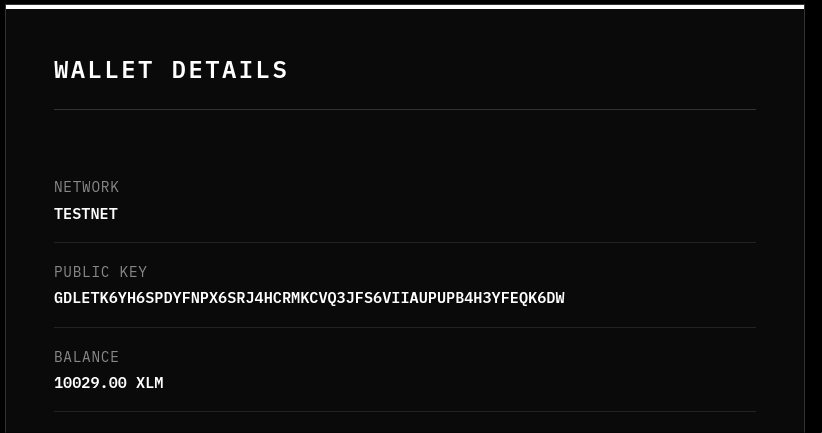
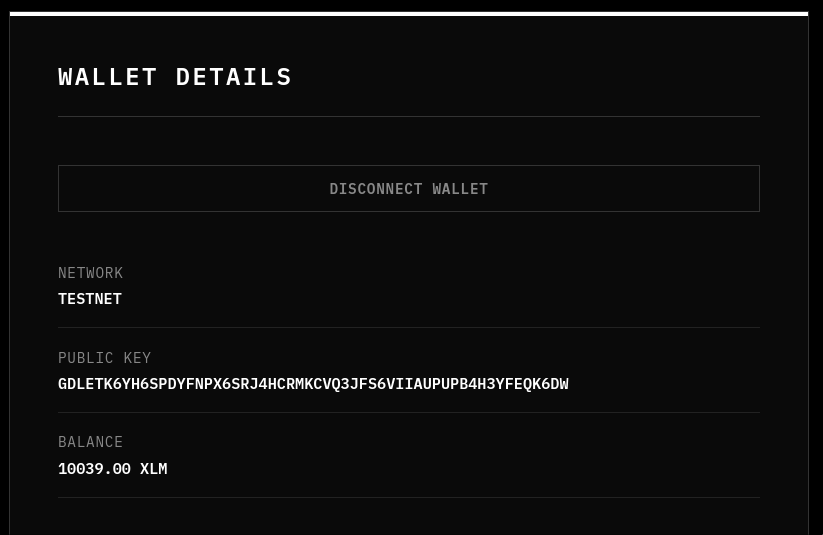
Add transaction sending functionality and disconnect button to Header component

diff --git a/src/components/Header.js b/src/components/Header.js
@@ -1,5 +1,5 @@
 import React, { useState } from 'react';
-import { checkConnection, retrievePublicKey, getBalance, getTransaction } from './Freighter';
+import { checkConnection, retrievePublicKey, getBalance, getTransaction, sendTransaction } from './Freighter';
 
 const Header = () => {
     const [connected, setConnected] = useState(false);
@@ -7,6 +7,21 @@ const Header = () => {
     const [balance, setBalance] = useState("0");
     const [transactions, setTransactions] = useState([]);
     const [isLoading, setIsLoading] = useState(false);
+
+    // Transaction state
+    const [sendDestination, setSendDestination] = useState("");
+    const [sendAmount, setSendAmount] = useState("");
+    const [txStatus, setTxStatus] = useState({ loading: false, success: false, error: null, hash: null });
+
+    const disconnectWallet = () => {
+        setPublicKey("");
+        setBalance("0");
+        setTransactions([]);
+        setConnected(false);
+        setSendDestination("");
+        setSendAmount("");
+        setTxStatus({ loading: false, success: false, error: null, hash: null });
+    };
 
     const connectWallet = async () => {
         setIsLoading(true);
@@ -39,6 +54,33 @@ const Header = () => {
         return `${addr.substring(0, 6)}...${addr.substring(addr.length - 4)}`;
     };
 
+    const handleSendTransaction = async () => {
+        if (!sendDestination || !sendAmount) {
+            alert("Please enter a destination address and amount.");
+            return;
+        }
+
+        setTxStatus({ loading: true, success: false, error: null, hash: null });
+        try {
+            const result = await sendTransaction(sendDestination, sendAmount);
+            setTxStatus({ loading: false, success: true, error: null, hash: result.hash });
+
+            // Refresh balance and transactions after successfully sending
+            setTimeout(async () => {
+                const bal = await getBalance();
+                const txs = await getTransaction(5);
+                setBalance(Number(bal).toFixed(2));
+                setTransactions(Array.isArray(txs) ? txs : []);
+            }, 3000); // Wait a few seconds for network verification
+
+            setSendDestination("");
+            setSendAmount("");
+        } catch (error) {
+            console.error(error);
+            setTxStatus({ loading: false, success: false, error: error.message || "An error occurred during the transaction.", hash: null });
+        }
+    };
+
     return (
         <div className="header-container">
             <h1 className="site-title">WALLET DETAILS</h1>
@@ -48,6 +90,9 @@ const Header = () => {
                 </button>
             ) : (
                 <div className="wallet-info">
+                    <button className="disconnect-btn" onClick={disconnectWallet}>
+                        DISCONNECT WALLET
+                    </button>
                     <div className="info-row">
                         <span className="info-label">NETWORK</span>
                         <span className="info-value">TESTNET</span>
@@ -59,6 +104,52 @@ const Header = () => {
                     <div className="info-row">
                         <span className="info-label">BALANCE</span>
                         <span className="info-value">{balance} XLM</span>
+                    </div>
+
+                    <div className="tx-section">
+                        <h2 className="tx-title">SEND XLM</h2>
+                        <div className="tx-form">
+                            <input
+                                type="text"
+                                className="tx-input"
+                                placeholder="Destination Address (G...)"
+                                value={sendDestination}
+                                onChange={(e) => setSendDestination(e.target.value)}
+                            />
+                            <input
+                                type="text"
+                                className="tx-input"
+                                placeholder="Amount (XLM)"
+                                value={sendAmount}
+                                onChange={(e) => {
+                                    const val = e.target.value;
+                                    // Sadece sayı ve tek bir noktaya izin ver
+                                    if (val === '' || /^\d*\.?\d*$/.test(val)) {
+                                        setSendAmount(val);
+                                    }
+                                }}
+                            />
+                            <button
+                                className="connect-btn tx-send-btn"
+                                onClick={handleSendTransaction}
+                                disabled={txStatus.loading || !sendDestination || !sendAmount}
+                            >
+                                {txStatus.loading ? 'SIGN & SENDING...' : 'SEND TRANSACTION'}
+                            </button>
+                        </div>
+
+                        {txStatus.error && (
+                            <div className="tx-status-message error">
+                                ERROR: {txStatus.error}
+                            </div>
+                        )}
+
+                        {txStatus.success && (
+                            <div className="tx-status-message success">
+                                SUCCESS! HASH: <br />
+                                <span className="tx-hash">{txStatus.hash}</span>
+                            </div>
+                        )}
                     </div>
 
                     <div className="tx-section">

diff --git a/src/App.css b/src/App.css
@@ -72,6 +72,28 @@
   cursor: not-allowed;
 }
 
+.disconnect-btn {
+  background-color: transparent;
+  color: #888;
+  border: 1px solid #333;
+  padding: 0.8rem 1.5rem;
+  font-size: 0.9rem;
+  font-weight: 600;
+  text-transform: uppercase;
+  letter-spacing: 0.05em;
+  cursor: pointer;
+  transition: all 0.2s ease;
+  width: 100%;
+  font-family: 'IBM Plex Mono', monospace;
+  margin-bottom: 2rem;
+}
+
+.disconnect-btn:hover {
+  background-color: #111;
+  color: #fff;
+  border-color: #555;
+}
+
 .wallet-info {
   width: 100%;
 }
@@ -170,4 +192,71 @@
   border: 1px solid #888;
   padding: 0.15rem 0.5rem;
   font-size: 0.75rem;
+}
+
+.tx-form {
+  display: flex;
+  flex-direction: column;
+  gap: 1rem;
+  margin-bottom: 1.5rem;
+}
+
+.tx-input {
+  background-color: #050505;
+  border: 1px solid #333;
+  color: #fff;
+  padding: 1rem;
+  font-family: 'IBM Plex Mono', monospace;
+  font-size: 1rem;
+  width: 100%;
+  box-sizing: border-box;
+  transition: border-color 0.2s;
+}
+
+.tx-input:focus {
+  outline: none;
+  border-color: #fff;
+}
+
+/* Hide number input arrows */
+.tx-input::-webkit-outer-spin-button,
+.tx-input::-webkit-inner-spin-button {
+  -webkit-appearance: none;
+  margin: 0;
+}
+
+.tx-input[type=number] {
+  -moz-appearance: textfield;
+  appearance: textfield;
+}
+
+.tx-send-btn {
+  margin-top: 0.5rem;
+}
+
+.tx-status-message {
+  padding: 1rem;
+  margin-bottom: 1.5rem;
+  font-size: 0.9rem;
+  border-left: 4px solid;
+  word-break: break-all;
+}
+
+.tx-status-message.error {
+  background: rgba(255, 0, 0, 0.1);
+  border-color: #ff3333;
+  color: #ff9999;
+}
+
+.tx-status-message.success {
+  background: rgba(0, 255, 0, 0.1);
+  border-color: #33ff33;
+  color: #99ff99;
+}
+
+.tx-hash {
+  font-size: 0.8rem;
+  color: #ccc;
+  display: block;
+  margin-top: 0.5rem;
 }

diff --git a/src/components/Freighter.js b/src/components/Freighter.js
@@ -39,4 +39,47 @@ const userSignTransaction = async (xdr, network, signWith) => {
     });
 }
 
-export { checkConnection, retrievePublicKey, getBalance, userSignTransaction, getTransaction };
+const sendTransaction = async (destination, amount) => {
+    const { address } = await getAddress();
+    const account = await Server.loadAccount(address);
+    let fee = "100";
+    try {
+        fee = (await Server.fetchBaseFee()).toString();
+    } catch (e) {
+        console.warn("Could not fetch base fee, defaulting to 100 stroops", e);
+    }
+
+    const transaction = new StellarSdk.TransactionBuilder(account, {
+        fee,
+        networkPassphrase: StellarSdk.Networks.TESTNET,
+    })
+        .addOperation(StellarSdk.Operation.payment({
+            destination,
+            asset: StellarSdk.Asset.native(),
+            amount: amount.toString(),
+        }))
+        .setTimeout(30)
+        .build();
+
+    const xdr = transaction.toXDR();
+    let signedTx = await signTransaction(xdr, {
+        networkPassphrase: StellarSdk.Networks.TESTNET,
+        address: address,
+    });
+
+    if (signedTx?.error) {
+        throw new Error(signedTx.error);
+    }
+
+    // Freighter v6 returns { signedTxXdr, signerAddress, error }
+    const signedXdr = signedTx.signedTxXdr || signedTx.signedTransaction || (typeof signedTx === "string" ? signedTx : null);
+    if (!signedXdr) {
+        throw new Error("Failed to get signed transaction from Freighter");
+    }
+
+    const transactionToSubmit = new StellarSdk.Transaction(signedXdr, StellarSdk.Networks.TESTNET);
+    const response = await Server.submitTransaction(transactionToSubmit);
+    return response;
+}
+
+export { checkConnection, retrievePublicKey, getBalance, userSignTransaction, getTransaction, sendTransaction };
